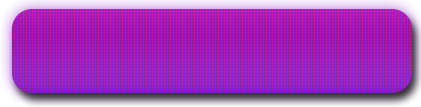
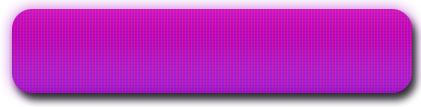
эффекты Большой кнопки “заказать звонок” внизу страницы.

diff --git a/css/style.css b/css/style.css
@@ -224,7 +224,7 @@ input {
     text-transform: uppercase;
     text-align: center;
     height: 107px;
-    background: url(../i/markup/bg-btn.png) no-repeat;
+    background: url(../i/markup/bg-btn.png);
     border: none;
     cursor: pointer;
     outline: none;
@@ -235,6 +235,11 @@ input {
     color: rgba(255 , 255, 255, 0.3);
     text-shadow: 1px 1px 1px #FFF, 0 0 0 #000, 1px 1px 1px #FFF;
     font-family: 'Myriad Pro Semibold';
+}
+.call__btn button:hover {
+    background-image: url(../i/markup/bg-btn-hover.png);
+    transition: all 2s ease-out;
+    -webkit-transition: all 2s ease-out;
 }
 .map-wrap {
   height: 336px;
@@ -439,6 +444,7 @@ header .contact__item {
     margin: 0 auto;
     margin-bottom: 10px;
     transition: background 1s ease-out;
+    -webkit-transition: background 1s ease-out;
 }
 .goals h4 {
   text-transform: uppercase;
@@ -1367,6 +1373,7 @@ footer {
     background: url(../i/markup/footer-logo.png) 19px -2px no-repeat;
     height: 64px;
     transition: background 0.4s ease-out;
+    -webkit-transition: background 0.4s ease-out;
 }
 .footer-logo__link:hover {
     background: url(../i/markup/logo.png) 16px -2px no-repeat;
@@ -1384,6 +1391,7 @@ footer .wrap-contact {
     top: 10px;
     height: 59px;
     transition: background-image 1s ease-in-out;    
+    -webkit-transition: background-image 1s ease-in-out;    
     background-image: url("../i/markup/phones.png");
 }
 .footer-phone:hover {
